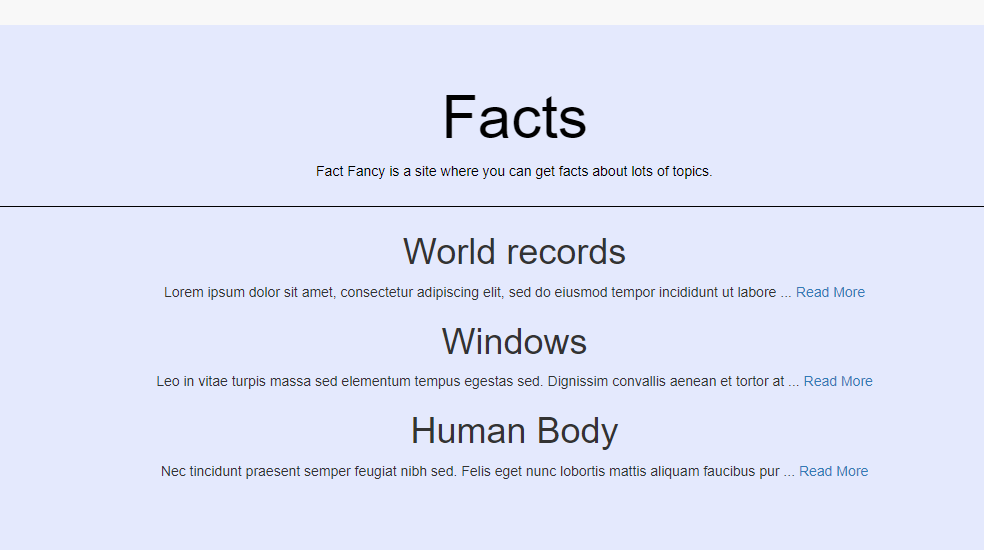
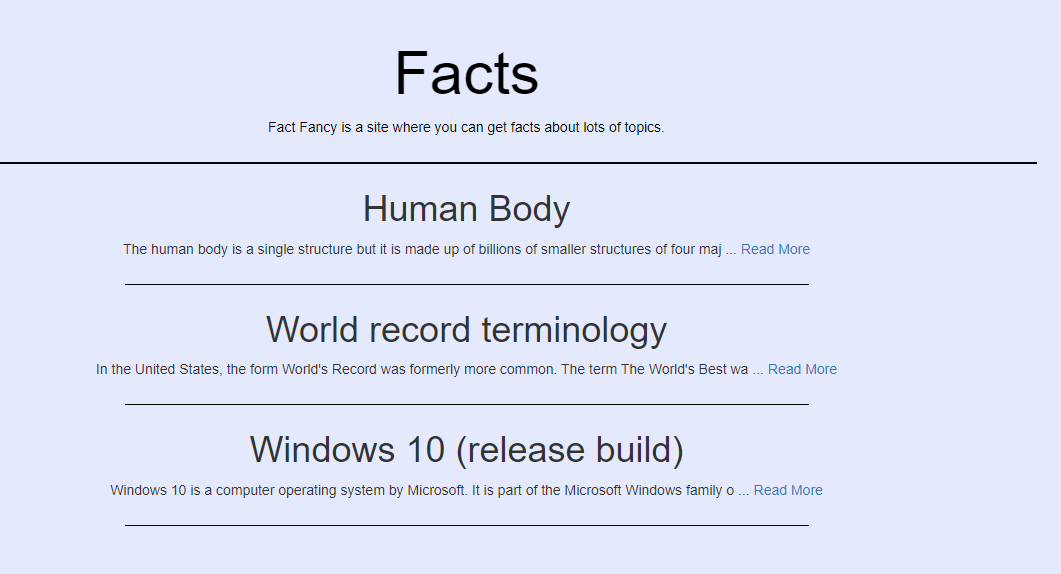
no ipsum

diff --git a/app.js b/app.js
@@ -12,6 +12,10 @@ const contentContent = "Fact Fancy gives you facts about loads of topics, includ
 const contactContent = "Contact Us!";
 const privacyContent = "Privacy Policy.";
 const termsContent = "Terms And Conditions";
+const aboutTitle = "About Us | ";
+const factsTitle = "Facts | ";
+const contactTitle = "Contact | ";
+const homeTitle = "Home | ";
 
 const app = express();
 
@@ -34,7 +38,8 @@ let posts = [];
 app.get("/", function(req, res){
   res.render("home", {
     startingContent: contentContent,
-    posts: posts
+    posts: posts,
+    title: homeTitle
     });
 });
 
@@ -46,7 +51,7 @@ app.get("/privacy", function(req, res) {
 
 app.get("/terms-and-conditions", function(req, res) {
   res.render("terms-and-conditions", {
-    startingContent: privacyContent
+    startingContent: termsContent
   });
 });
 
@@ -55,7 +60,8 @@ app.get("/facts", function(req, res) {
     Post.find({}, function(err, posts){
       res.render("facts", {
         startingContent: factsStartingContent,
-        posts: posts
+        posts: posts,
+        title: factsTitle
         });
     });
 });
@@ -94,13 +100,15 @@ app.get("/posts/:postId", function(req, res) {
 
 app.get("/about-us", function(req, res) {
   res.render("about", {
-    startingContent: aboutContent
+    startingContent: aboutContent,
+    title: aboutTitle
   });
 });
 
 app.get("/contact_us", function(req, res) {
   res.render("contact", {
-    startingContent: contactContent
+    startingContent: contactContent,
+    title: contactTitle
   });
 });
 

diff --git a/public/css/styles.css b/public/css/styles.css
@@ -18,6 +18,15 @@ nav {
   margin-left: 800px;
 }
 
+.hr-f {
+  width: 60%;
+  margin: 25px auto;
+  border-style: none;
+  border-top-style: solid;
+  border-color: black;
+  border-width: 0.00000001px;
+}
+
 .node-logo {
   border-radius: 10px;
   transform: rotate(10deg);
@@ -107,6 +116,10 @@ body {
   background-color: #E4E9EC;
 }
 
+.img-res{
+  text-align: center;
+}
+
 #name:focus{
   width: 400px;
   height: 40px;
@@ -148,19 +161,23 @@ body {
 }
 
 .page-image-1{
-  border: 3px solid black;
+  border: 2px solid black;
   border-radius: 5px;
-  box-shadow: 0 4px 8px 0 rgba(0, 0, 0, 0.4), 0 6px 20px 0 rgba(0, 0, 0, 0.38);
-  width: 800px;
-  height: 450px;
+  box-shadow: 0 4px 8px 0 rgba(0, 0, 0, 0.4), 0 6px 20px 0 rgba(0, 0, 0, 0.12);
+  /* width: 800px;
+  height: 450px; */
+}
+
+.lineHeight {
+  line-height: 25px;
 }
 
 .page-image-2{
-  border: 3px solid black;
+  border: 2px solid black;
   border-radius: 5px;
-  box-shadow: 0 4px 8px 0 rgba(0, 0, 0, 0.4), 0 6px 20px 0 rgba(0, 0, 0, 0.38);
-  width: 1000px;
-  height: 450px;
+  box-shadow: 0 4px 8px 0 rgba(0, 0, 0, 0.4), 0 6px 20px 0 rgba(0, 0, 0, 0.12);
+  /* width: 1100px;
+  height: 500px; */
 }
 
 .body {
@@ -194,7 +211,7 @@ hr {
   border-style: none;
   border-top-style: solid;
   border-color: black;
-  border-width: 1px;
+  border-width: 2px;
   width: 100%;
 }
 
@@ -232,9 +249,8 @@ hr {
 }
 
 .footer {
-  align-items: center;
+  text-align: center;
   display: grid;
-  margin-top: 20px;
   text-align: center;
   bottom: 100px;
   width: 100%;
